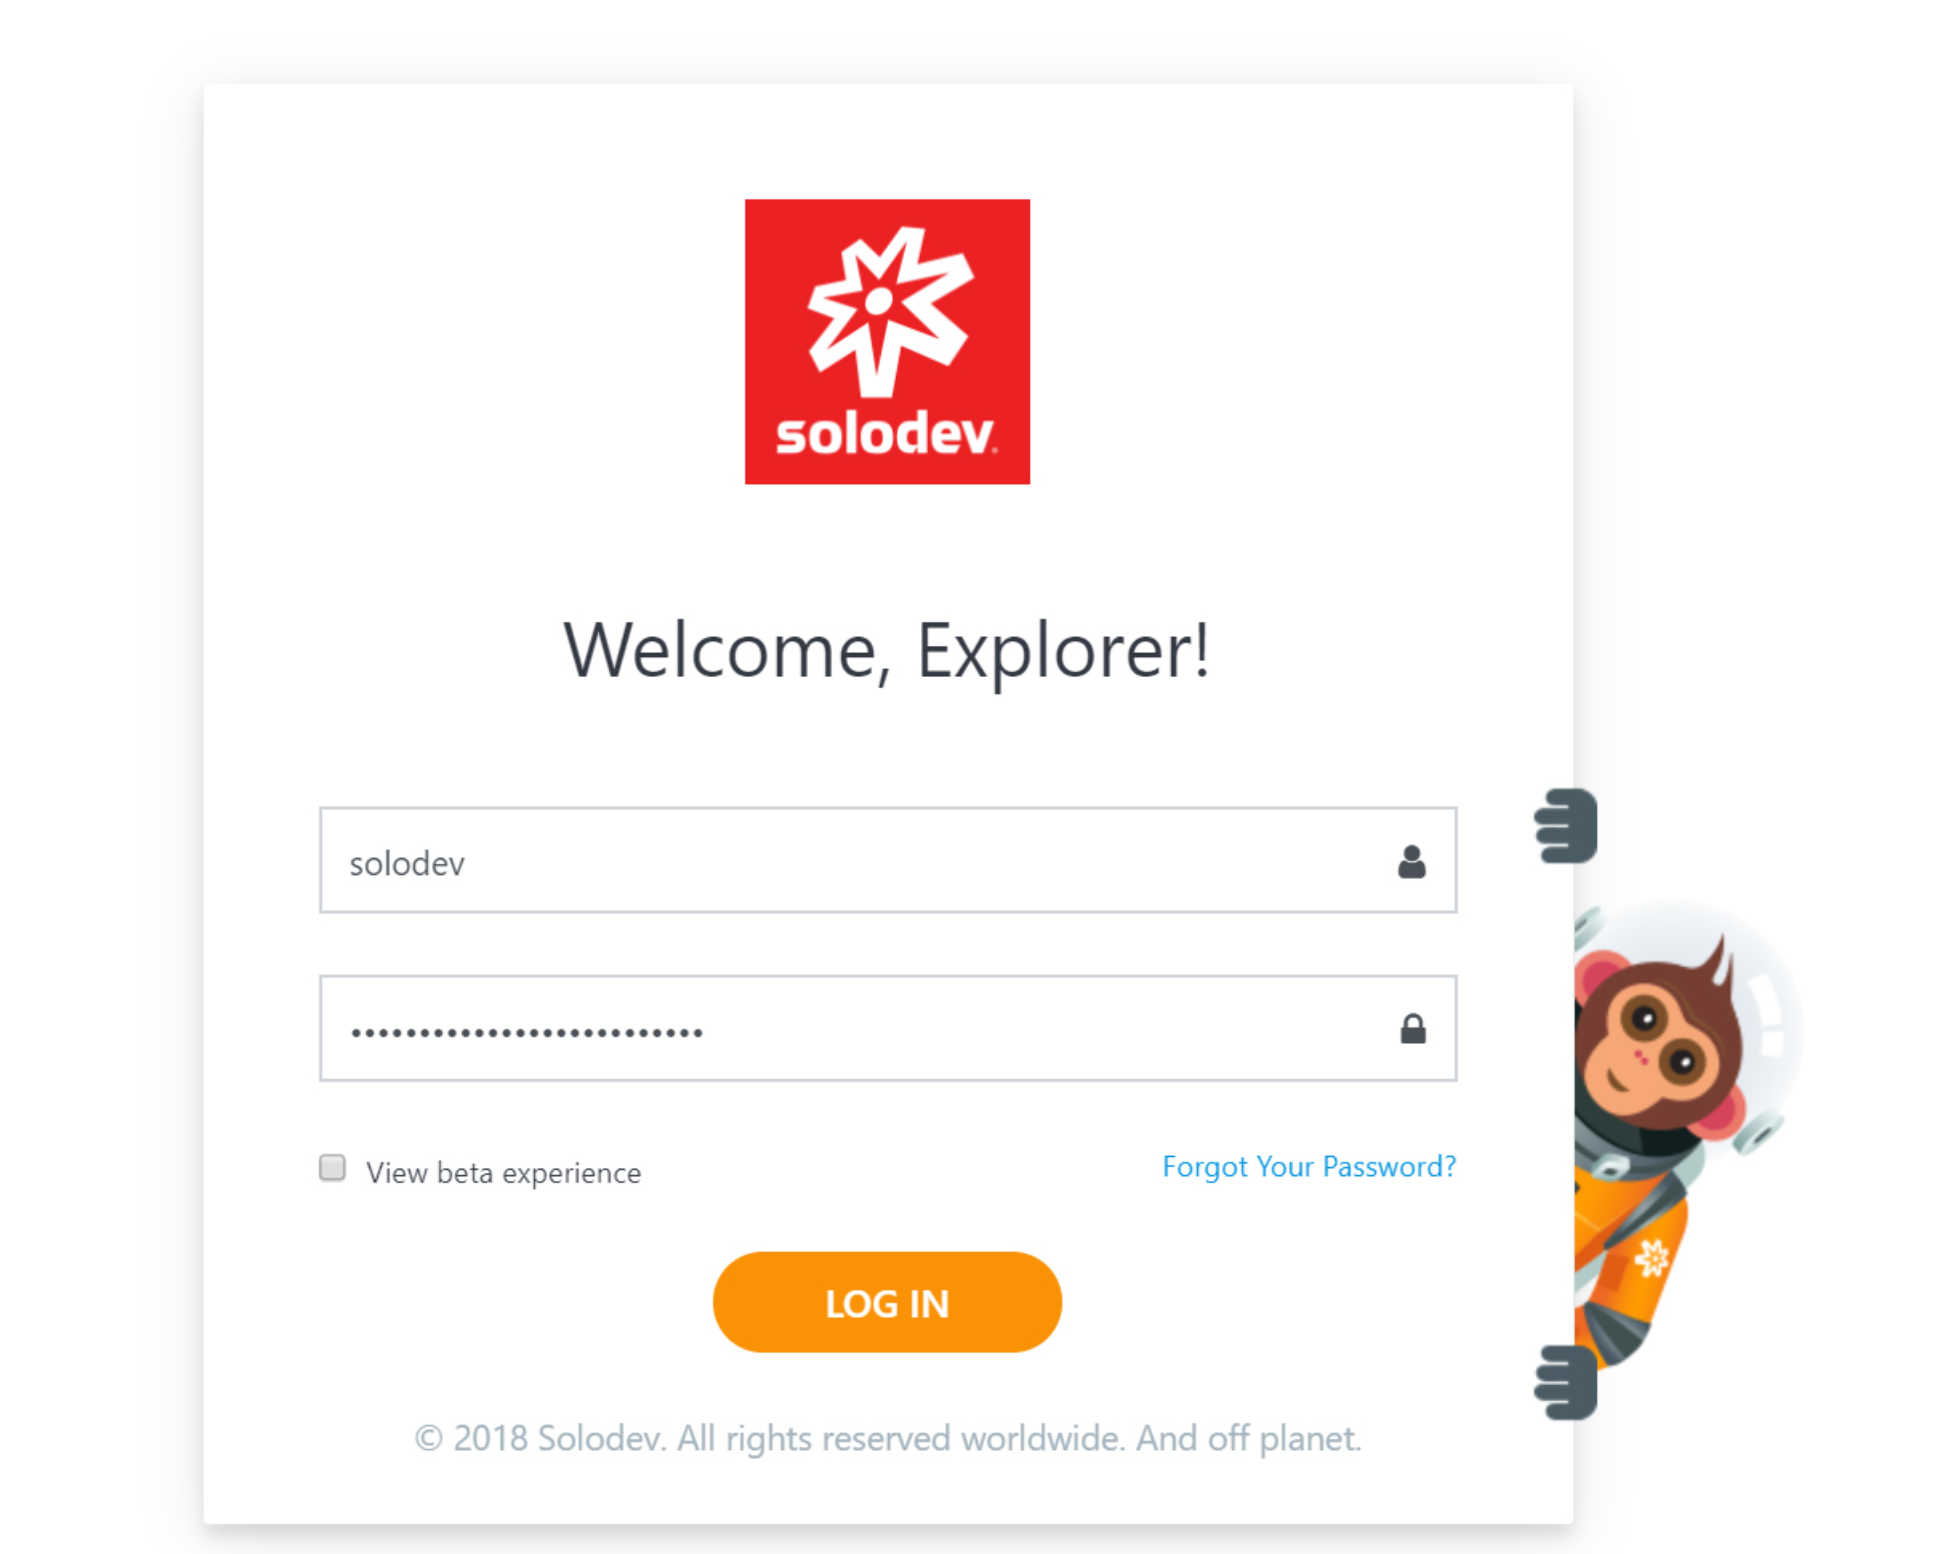
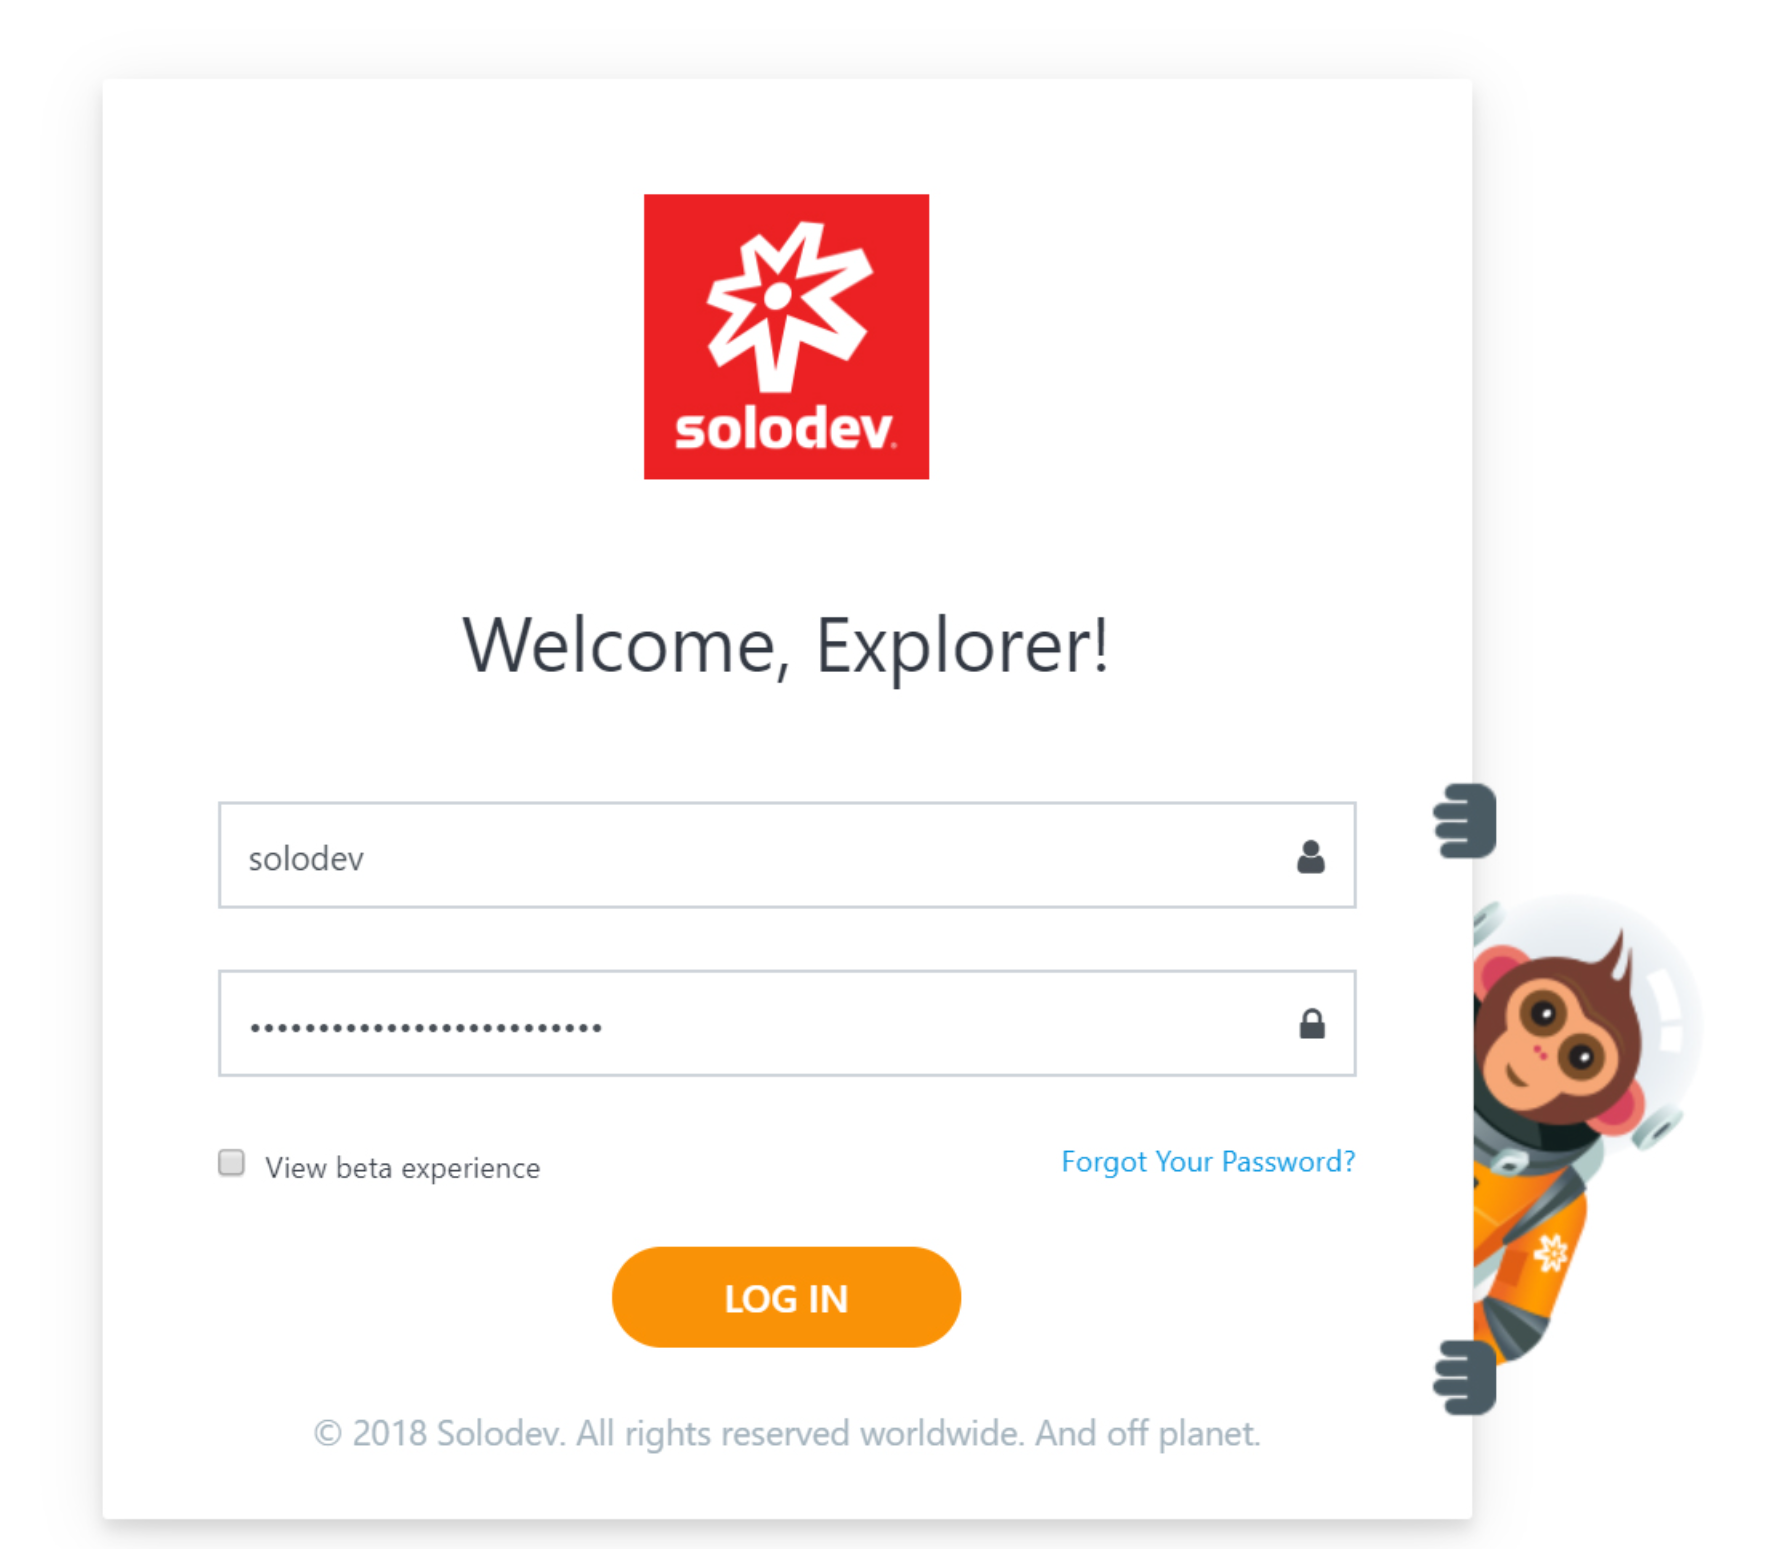
updayed quickstart and tutorial section

diff --git a/src/Quickstart/Solodev Enterprise/index.md b/src/Quickstart/Solodev Enterprise/index.md
@@ -25,8 +25,6 @@ Solodev CMS Enterprise Edition is available in the AWS Marketplace and can be in
 
 <img src="../../images/solodevcmsenterprise.jpg" alt="AWS Diagram" style="width: 100%; display: block"></a>
 
-Getting to the Solodev Launchpad is easy. In just a few short steps, you'll be lifting off on AWS.
-
 ## Prerequisites
 
 Before subscribing to Solodev CMS Enterprise Edition, you will need to have an AWS account and sign in. If you do not have an account, you can create one at 
@@ -43,7 +41,7 @@ At the top of the AWS Marketplace listing page for the Solodev CMS Enterprise Ed
 <img src="../../images/cmsenterpriseawssubscribe1.png" alt="CMSEnterpriseSubscribe" style="width: 100%; display: block"></a>
 
 !!!NOTE:
-If you already have an existing Solodev license, call 1-800-859-7656 and a member of team will activate your subscription for you.
+If you already have a Solodev license, call 1-800-859-7656 and a member of team will activate your subscription for you.
 !!!
 
 ## Step 2: Configure Your VPC and EC2 Key Pair
@@ -92,7 +90,7 @@ Subnets | Choose at least two public subnets for this application
 InstanceType | The EC2 instance type you wish to launch
 InstanceCount | Number of instances behind load balancer. Minimum 2 required for high availability.
 KeyName | Name of an existing EC2 KeyPair to enable SSH access to the instances
-CookbookURL | https://s3.amazonaws.com/solodev-cms/chef/cookbooks.tar.gz (**COPY THIS URL.**) or Download and host on your own S3 bucket
+CookbookURL | https://s3.amazonaws.com/solodev-cms/chef/cookbooks.tar.gz (**COPY AND URL where it says Enter String**) or Download and host on your own S3 bucket
 
 <img src="../../images/enterprise-parmeters.png" alt="Parameters " style="width: 100%; display: block"></a>
 
@@ -131,9 +129,6 @@ AdminEnabled | Enable Admin Layer
 
 Click "Next" button on the the bottom of the screen to continue.
 
-<img src="../../images/cmsproawssubscribe11.png" alt="CMSProSubscribe" style="width: 100%; display: block"></a>
-
-
 ### Specify Options
 Generally speaking, no additional options need to be configured. If you are experiencing continued problems installing the software, disable "Rollback on failure" under the "Advanced" options. This will allow for further troubleshooting if necessary. Click on the "Next" button to continue.
 
@@ -159,7 +154,17 @@ If your stack builds successfully, you will see the green "CREATE_COMPLETE" mess
 ## Step 7: Login to Solodev
 Visit either the load balancer URL or the backend domain you configured in Step 7. Log-in to Solodev using the username "solodev" and the password you configured in Step 5.
 
-<img src="../../images/cmsproawssubscribe15.png" alt="CMSProSubscribe" style="width: 100%; display: block"></a>
+<img src="../../images/cmsproawssubscribe15.png" alt="CMSProSubscribe" style="width: 75%; display: block"></a>
+
+## Step 8: Add your First Website
+
+Please follow this <a href="/tutorials/cms/add-website/">link</a> and you will learn how to build your first website.
+
+## Canceling your subscription
+
+If you would like to cancel your Solodev subscription and you have choosen hourly billing plans just delete the stack connected with you CMS Pro
+
+<img src="../../images/cmsproawssubscribe16.png" alt="CMSProSubscribe" style="width: 100%; display: block"></a>
 
 ## Support
 Houston, we have no problems… because Solodev Customer Care has your back at every step! From our world-class HelpDesk to our focused training sessions, you’ve got the best team on the ground to get you to the stars.
@@ -173,22 +178,3 @@ Solodev Customer Care Includes
 * Over 300 pages of searchable documentation and tutorials
 
 To learn more about our add-on support options, call 1-800-859-7656 to speak with one of our Solodev Customer Care Specialists.
-
-## Developers
-Are you a Solodev Developer? Launch a development stack in your AWS account using the below links. Please note, the builds will only be successful for authorized Solodev Developers.
-
-* <a href="https://us-east-1.console.aws.amazon.com/cloudformation/home?region=us-east-1#/stacks/create?stackName=solodev-enterprise&templateURL=https://s3.amazonaws.com/solodev-cms/cloudformation/solodev-enterprise-opsworks.yaml">Launch Solodev Enterprise OpsWorks</a>
-* <a href="https://us-east-1.console.aws.amazon.com/cloudformation/home?region=us-east-1#/stacks/create?stackName=solodev-enterprise-byol&templateURL=https://s3.amazonaws.com/solodev-cms/cloudformation/solodev-enterprise-opsworks-byol.yaml">Launch Solodev Enterprise OpsWorks BYOL</a>
-
-## Need Help?
-Solodev is a professionally managed, enterprise-class solution, and our team of certified engineers are here to support your success. While our self-serve options are easy to launch, you’ve always got a co-pilot at the helm. If you have any questions – or if you already have a Solodev license and need support with your AWS subscription – call 1-800-859-7656 and we’ll help you get to the launchpad.
-
-## Canceling your subscription
-
-If you would like to cancel your Solodev subscription and you have choosen hourly billing plans just delete the stack connected with you CMS Pro
-
-<img src="../../images/cmsproawssubscribe16.png" alt="CMSProSubscribe" style="width: 100%; display: block"></a>
-
-
----
-If you wish to learn how to add your first website, please read our <a href="../../../tutorials/cms/add-website/">tutorial.

diff --git a/src/Quickstart/Solodev Pro/index.md b/src/Quickstart/Solodev Pro/index.md
@@ -7,8 +7,6 @@ Solodev CMS Professional Edition on AWS uses a set of YAML templates including <
 
 <img src="../../images/solodevcmspro.png" alt="AWS Diagram" style="width: 100%; display: block"></a>
 
-Getting to the Solodev Launchpad is easy. In just a few short steps, you'll be lifting off on AWS.
-
 ## Prerequisites
 Before subscribing to a desired stack, Solodev recommends that customers have created an AWS account and sign in. 
 
@@ -17,7 +15,9 @@ Solodev is a professionally managed, enterprise-class Digital Customer Experienc
 
 [!button variant="warning" target="blank" text="Subscribe Now"](https://aws.amazon.com/marketplace/pp/B07KMFPW3X/ref=_ptnr_solodev_github_B07KMFPW3X)
 
-Already have a Solodev license? Call 1-800-859-7656 and we’ll activate your subscription for you.
+!!!NOTE:
+If you already have a Solodev license, call 1-800-859-7656 and a member of team will activate your subscription for you.
+!!!
 
 ## Step 2: Configure Your VPC and EC2 Key Pair
 Please note that both a VPC and EC2 Key Pair must be configured within the region you intend to launch your stack. If the following items are already created, you can skip directly to launch.
@@ -101,12 +101,8 @@ CertificateArn | CertificateArn for SSL cert that matches the FQDN above. Please
 
 Click "Next" button on the the bottom of the screen to continue.
 
-<img src="../../images/cmsproawssubscribe11.png" alt="CMSProSubscribe" style="width: 100%; display: block"></a>
-
 ### Specify stack options
 Generally speaking, no additional options need to be configured. If you are experiencing continued problems installing the software, disable "Rollback on failure" under the "Advanced" options. This will allow for further troubleshooting if necessary. Click on the "Next" button to continue.
-
-<img src="../../images/cmsproawssubscribe11.png" alt="CMSProSubscribe" style="width: 100%; display: block"></a>
 
 ### Review
 
@@ -129,7 +125,20 @@ If your stack builds successfully, you will see the green "CREATE_COMPLETE" mess
 ## Step 7: Login to Solodev
 Visit either the IP address or the backend domain you configured in Step 6. Log-in to Solodev using the username "solodev" and the password you configured in Step 5.
 
-<img src="../../images/cmsproawssubscribe15.png" alt="CMSProSubscribe" style="width: 100%; display: block"></a>
+<img src="../../images/cmsproawssubscribe15.png" alt="CMSProSubscribe" style="width: 75%; display: block"></a>
+
+## Step 8: Add your First Website
+
+Please follow this <a href="/tutorials/cms/add-website/">link</a> and you will learn how to build your first website.
+
+## Canceling your subscription
+
+If you would like to cancel your Solodev subscription and you have choosen hourly billing plans just delete the stack connected with you CMS Pro
+
+<img src="../../images/cmsproawssubscribe16.png" alt="CMSProSubscribe" style="width: 100%; display: block"></a>
+
+
+---
 
 ## Support
 Houston, we have no problems… because Solodev Customer Care has your back at every step! From our world-class HelpDesk to our focused training sessions, you’ve got the best team on the ground to get you to the stars.
@@ -144,22 +153,4 @@ Solodev Customer Care Includes
 
 To learn more about our add-on support options, call 1-800-859-7656 to speak with one of our Solodev Customer Care Specialists.
 
-## Developers
-Are you a Solodev Developer? Launch a development stack in your AWS account using the below links. Please note, the builds will only be successful for authorized Solodev Developers.
-
-* <a href="https://us-east-1.console.aws.amazon.com/cloudformation/home?region=us-east-1#/stacks/create?stackName=solodev-enterprise&templateURL=https://s3.amazonaws.com/solodev-cms/cloudformation/solodev-enterprise-opsworks.yaml">Launch Solodev Enterprise OpsWorks</a>
-* <a href="https://us-east-1.console.aws.amazon.com/cloudformation/home?region=us-east-1#/stacks/create?stackName=solodev-enterprise-byol&templateURL=https://s3.amazonaws.com/solodev-cms/cloudformation/solodev-enterprise-opsworks-byol.yaml">Launch Solodev Enterprise OpsWorks BYOL</a>
-
-## Need Help?
-Solodev is a professionally managed, enterprise-class solution, and our team of certified engineers are here to support your success. While our self-serve options are easy to launch, you’ve always got a co-pilot at the helm. If you have any questions – or if you already have a Solodev license and need support with your AWS subscription – call 1-800-859-7656 and we’ll help you get to the launchpad.
-
-
-## Canceling your subscription
-
-If you would like to cancel your Solodev subscription and you have choosen hourly billing plans just delete the stack connected with you CMS Pro
-
-<img src="../../images/cmsproawssubscribe16.png" alt="CMSProSubscribe" style="width: 100%; display: block"></a>
-
-
----
 If you wish to learn how to add your first website, please read our <a href="../../../tutorials/cms/add-website/">tutorial.

diff --git a/src/Quickstart/Solodev CMS for Kubernetes/index.md b/src/Quickstart/Solodev CMS for Kubernetes/index.md
@@ -1,3 +1,60 @@
 # Solodev Kubernetes for EKS
 
-This page is launching soon.
+Launch Amazon Elastic Kubernets Service (EKS) in a new cluster and manage your containers at any scale with Solodev. Launch your applications rapidly and across AWS Regions and Availability Zones, and move from environment to environment regardless of operating system.
+
+## Overview
+
+Solodev Kubernetes for EKS uses a set of YAML templates to create a new EKS cluster. All YAML templates are deployed via <a href="https://docs.aws.amazon.com/AWSCloudFormation/latest/UserGuide/Welcome.html">AWS CloudFormation</a>.
+
+<img src="../../images/SolodevEKS.jpg" alt="AWS Diagram" style="width: 100%; display: block"></a>
+
+## Prerequisites
+Before subscribing to a desired stack, Solodev recommends that customers have created an AWS account and sign in. 
+
+## Step 1: Subscribe on the AWS Marketplace
+Solodev is a professionally managed, enterprise-class Digital Customer Experience Platform and content management system (CMS). Before launching one of our products, you'll first need to subscribe to Solodev on the AWS Marketplace. Click the button below and follow the AWS screens to get started:
+
+[!button variant="warning" target="blank" text="Subscribe Now"](https://aws.amazon.com/marketplace/pp/prodview-vloxdsevbey2k)
+
+!!!NOTE:
+If you already have a Solodev license, call 1-800-859-7656 and a member of team will activate your subscription for you.
+!!!
+
+## Step 2: Launch Solodev Kubernetes for EKS via CloudFormation
+
+<table>
+	<tr>
+		<td width="25%"><a href="https://github.com/solodev/quickstart-solodev-eks/blob/master/pages/deploy-solodev-eks.md"><img src="https://raw.githubusercontent.com/solodev/aws/master/pages/images/amazon-eks-by-solodev.jpg" /></a></td>
+		<td>
+			<h3>Solodev Kubernetes for EKS</h3>
+			<p>Launch Amazon Elastic Kubernetes Service (EKS) in a new cluster and manage your containers at any scale with Solodev. Launch your applications rapidly and across AWS Regions and Availability Zones, and move from environment to environment regardless of operating system.</p>
+			<p align="right"><a href="https://github.com/solodev/quickstart-solodev-eks/blob/master/pages/deploy-solodev-eks.md"><img src="https://raw.githubusercontent.com/solodev/aws/master/pages/images/solodev-launch-btn.png" width="200" /></a></p>
+		</td>
+	</tr>
+</table>
+
+## Launch Apps on your Managed Kubernetes Cluster
+
+With your EKS cluster up and running, you can install apps within the cluster itself. Below are available apps with more to come!
+<table>
+	<tr>
+		<td width="25%"><a href="https://github.com/solodev/quickstart-solodev-eks/blob/master/pages/deploy-solodev-cms.md"><img src="https://raw.githubusercontent.com/solodev/aws/master/pages/images/solodev-dcx-for-eks.jpg" /></a></td>
+		<td>
+			<h3>Solodev Content Management (CMS) for Kubernetes</h3>
+			<p>Deploy Solodev CMS for Kubernetes and start managing and scaling your websites and digital experiences on AWS. Rapidly move from your local environment to the cloud, add or remove containers to meet shifts in traffic, and manage entire fleets of Solodev applications with the power of Amazon EKS.</p>
+			<p align="right"><a href="https://github.com/solodev/quickstart-solodev-eks/blob/master/pages/deploy-solodev-cms.md"><img src="https://raw.githubusercontent.com/solodev/aws/master/pages/images/solodev-launch-btn.png" width="200" /></a></p>
+		</td>
+	</tr>
+</table>
+
+## Support
+Houston, we have no problems… because Solodev Customer Care has your back at every step! From our world-class HelpDesk to our focused training sessions, you’ve got the best team on the ground to get you to the stars. 
+
+Solodev Customer Care Includes
+* 24x7x365 U.S. based human support
+* Online HelpDesk ticketing
+* Phone and email support
+* Live training courses
+* Over 300 pages of searchable documentation and tutorials
+
+To learn more about our add-on support options, call 1-800-859-7656 to speak with one of our Solodev Customer Care Specialists.

diff --git a/src/Tutorials/CMS/Add website/index.md b/src/Tutorials/CMS/Add website/index.md
@@ -12,7 +12,7 @@ Once you have your domain name, connect your domain to Solodev by following the 
 
 The first thing you will need to do, is to log into Solodev CMS. Enter your username and password and click **Log In**.
 
-<img src="../../../images/cmsproawssubscribe15.png" alt="CMSProSubscribe" style="width: 100%; display: block"></a>
+<img src="../../../images/cmsproawssubscribe15.png" alt="CMSProSubscribe" style="width: 75%; display: block"></a>
 
 On the left side, click on **Websites** then click on **Add Website** button.
 
